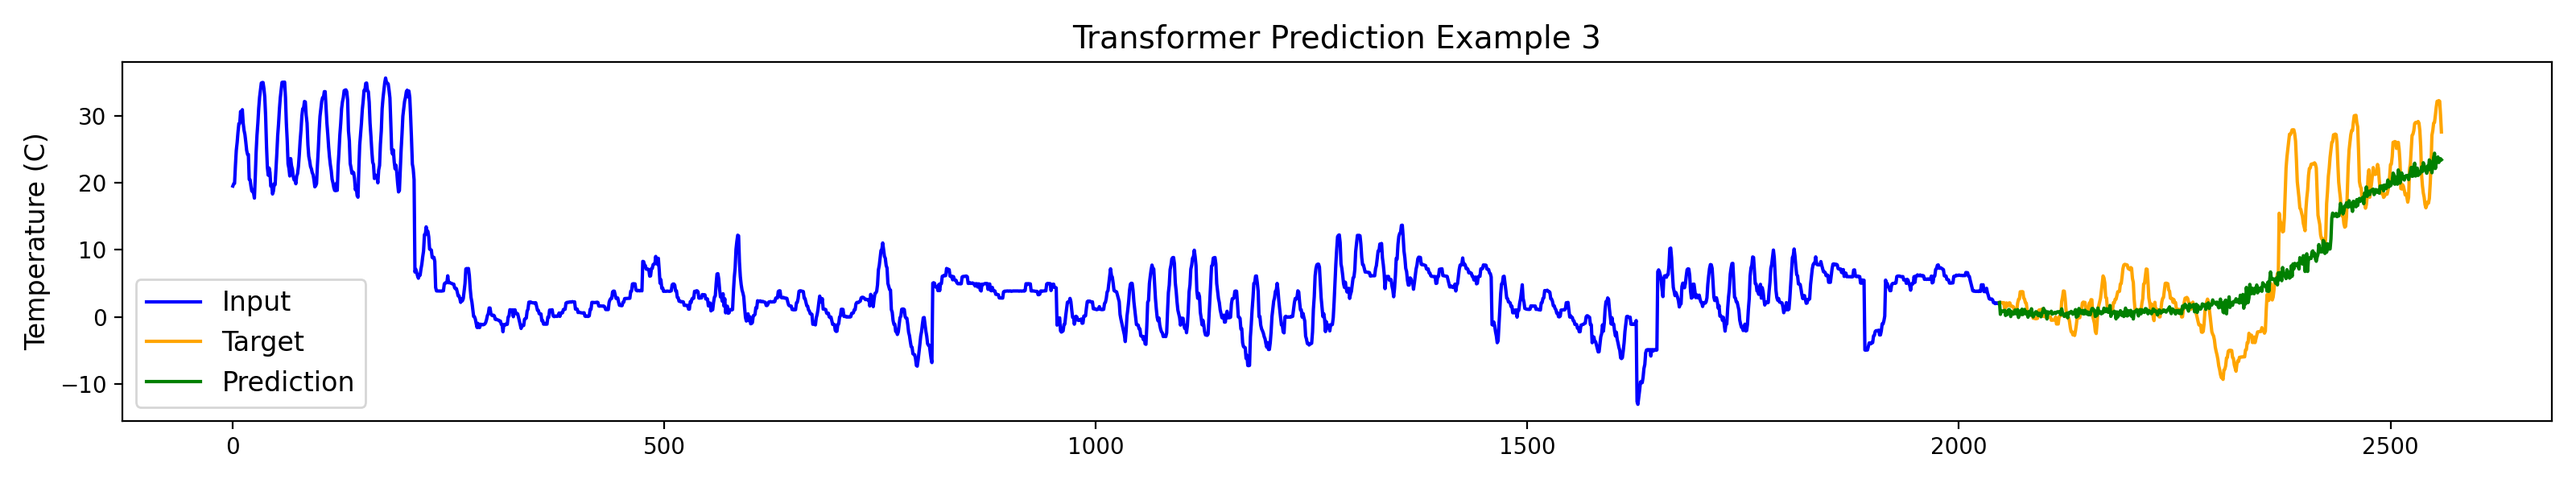
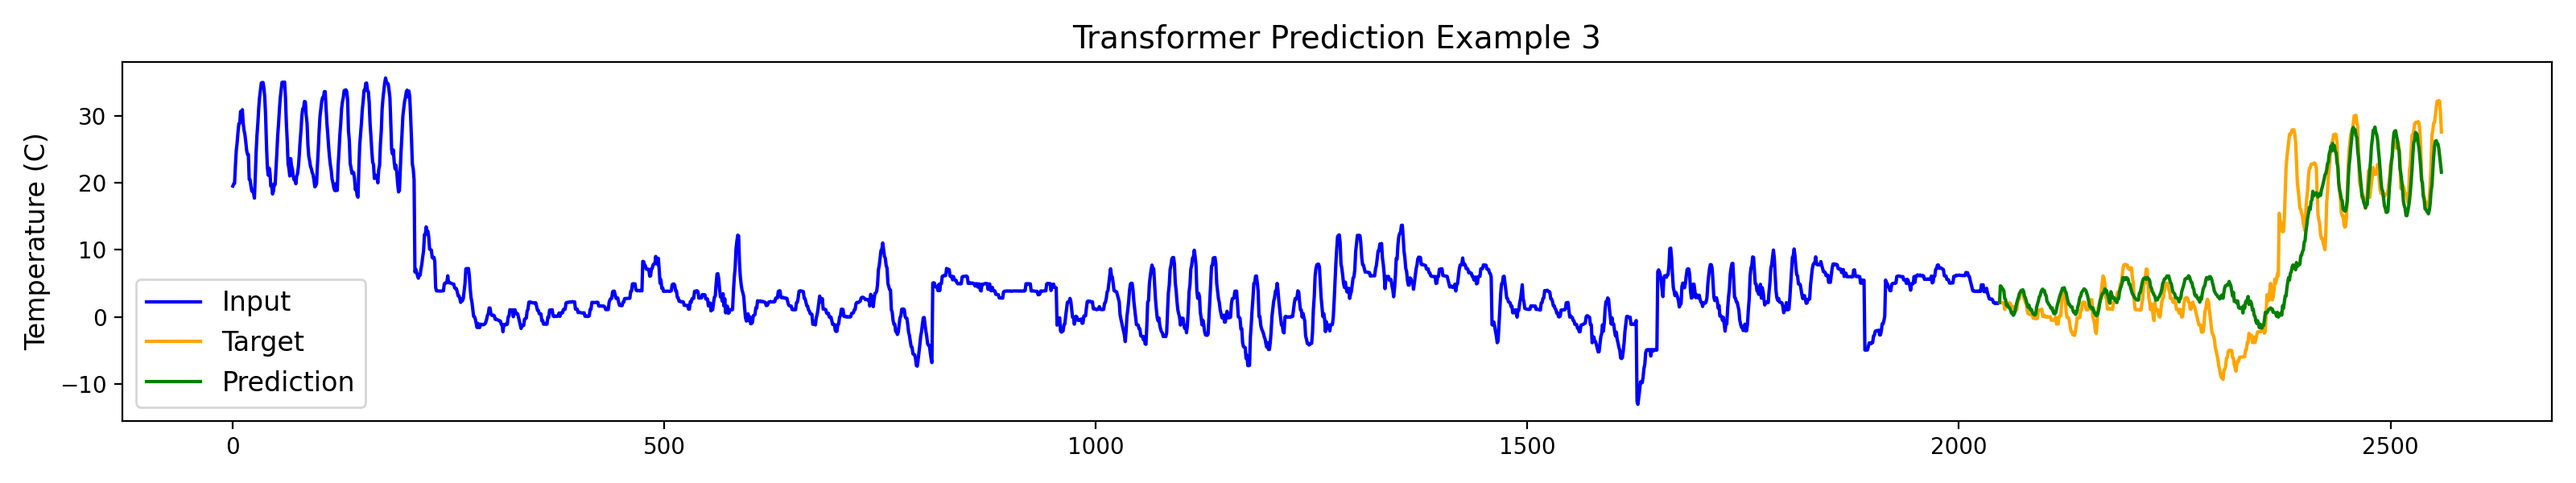
multi token work

Changed region(s): [[0.75, 0.48, 0.9062, 0.66], [0.875, 0.27, 0.9688, 0.45]]

diff --git a/post/style.css b/post/style.css
@@ -616,9 +616,17 @@ h1 {
 
 }
 
-@media (max-width: 768px) {
+@media (max-width: 800px) {
+    .blog .subtitle {
+        font-size: 14px;
+    }
+
     .blog p {
         font-size: 18px;
+    }
+
+    .blog h1 {
+        font-size: 46px;
     }
 
     .blog ul {
@@ -627,11 +635,51 @@ h1 {
 
     .blog p code,
     .blog ul code {
-        background-color: white;
-        padding-left: 2px;
-        padding-right: 2px;
-        border-radius: 5px;
         font-size: 15px;
-        color: black;
+    }
+
+    .blog pre code {
+        font-size: 14px;
+    }
+}
+
+@media (max-width: 600px) {
+    .blog .subtitle {
+        font-size: 13px;
+    }
+
+    .blog p {
+        font-size: 17px;
+    }
+
+    .blog h1 {
+        font-size: 40px;
+    }
+
+    .blog ul {
+        font-size: 17px;
+    }
+
+    .blog p code,
+    .blog ul code {
+        font-size: 15px;
+    }
+
+    .blog pre code {
+        font-size: 12px;
+        tab-size: 2;
+    }
+
+    .blog .figure_container_small {
+        padding-left: 12px;
+        padding-right: 12px;
+        padding-top: 4px;
+        padding-bottom: 14px;
+    }
+
+    .blog .figure_caption {
+        font-size: 12px;
+        margin-left: 5%;
+        margin-right: 5%;
     }
 }

diff --git a/post/transformer_time_series.html b/post/transformer_time_series.html
@@ -573,10 +573,9 @@ class TimeSeriesTransformer(nn.Module):
 	def forward(self, x):        
 		x, m, s = normalize(x)
 								
-        encoded_patches = self.encode_patches(x,
-                                              self.patches,
-                                              self.patch_len,
-                                              self.patch_encoder)
+		encoded_patches = self.encode_patches(
+			x, self.patches, self.patch_len, self.patch_encoder
+		)
 
 		x = torch.stack(encoded_patches, dim=1)
 				

diff --git a/post/mlp_version.py b/post/mlp_version.py
@@ -146,7 +146,7 @@ class TimeSeriesTransformer(nn.Module):
 
         self.patch_len = patch_len
         self.patches = context_len // patch_len
-        
+
         self.output_patches = output_len // output_patch_len
         self.tokens = self.patches + self.output_patches
 
@@ -182,7 +182,9 @@ class TimeSeriesTransformer(nn.Module):
             ]
         )
 
-        self.tgt_mask = self.causal_mask(self.tokens)
+        self.register_buffer("tgt_mask", self.causal_mask(self.tokens))
+
+        #self.tgt_mask = self.causal_mask(self.tokens)
 
     def encode_patches(self, x, patches, patch_len, encoder):
         x = x.view(x.shape[0], patches, patch_len)
@@ -194,13 +196,13 @@ class TimeSeriesTransformer(nn.Module):
             encoded_patches.append(encoded_patch)
 
         return encoded_patches
-    
+
     def decode_patches(self, x, output_patches, output_patch_len, decoder):
         decoded_patches = []
-        
+
         for i in range(1, output_patches + 1):
             decoded_patches.append(decoder(x[:, -i, :]))
-        
+
         return torch.cat(decoded_patches, dim=1)
 
     def forward(self, x):
@@ -218,10 +220,12 @@ class TimeSeriesTransformer(nn.Module):
         for layer in self.transformer_layers:
             x = layer(x, src_mask=self.tgt_mask, is_causal=True)
 
-        x = self.decode_patches(x, self.output_patches, self.output_patch_len, self.patch_decoder)
+        x = self.decode_patches(
+            x, self.output_patches, self.output_patch_len, self.patch_decoder
+        )
 
-        #x = x[:, -1, :]
-        #x = self.patch_decoder(x)
+        # x = x[:, -1, :]
+        # x = self.patch_decoder(x)
 
         x = un_normalize(x, m, s)
 
@@ -241,10 +245,10 @@ def normalize(x, m=None, s=None):
 
 
 def un_normalize(x, m, s):
-    #print(x.shape)
-    #print(m.shape)
-    #print(s.shape)
-    
+    # print(x.shape)
+    # print(m.shape)
+    # print(s.shape)
+
     return (x * s) + m
 
 
@@ -260,7 +264,7 @@ def normalized_mse(series, pred, target):
 def plot_dataset(ds, idx, title, prediction=None):
     plt.figure(figsize=(16, 3), dpi=200)
 
-    x = np.arange(context_len + output_len)
+    x = np.arange(context_len + len(ds[idx][1]))
     last_val = np.array([ds[idx][0][-1].numpy()])
 
     future = np.concatenate((last_val, ds[idx][1].numpy()))
@@ -286,9 +290,7 @@ def plot_dataset(ds, idx, title, prediction=None):
 
 
 def autoregressive_forecast(model, steps=10, start_idx=3000):
-    ds = TimeSeriesDataset(
-        weather_ds, context_len, output_len * steps, split="test"
-    )
+    ds = TimeSeriesDataset(weather_ds, context_len, output_len * steps, split="test")
     data = ds[start_idx][0].to(device)
 
     model.eval()
@@ -359,11 +361,12 @@ def test(model, device, optimizer, dataloader):
 if __name__ == "__main__":
     patch_len = 32
     output_patch_len = 128
-    output_len = output_patch_len * 4
-    context_len = 1024 * 2
+    output_patches = 4
+    output_len = output_patch_len * output_patches
+    context_len = 2048
     d_model = 256
     num_heads = 4
-    num_layers = 2
+    num_layers = 4
     dropout = 0.1
     n_fft = 256
 
@@ -372,7 +375,7 @@ if __name__ == "__main__":
 
     learning_rate = 3e-4
     batch_size = 32 * 2
-    max_epochs = 1
+    max_epochs = 5
 
     device = "cpu"
 
@@ -383,9 +386,7 @@ if __name__ == "__main__":
 
     weather_ds = WeatherDataset()
 
-    ds_train = TimeSeriesDataset(
-        weather_ds, context_len, output_len, split="train"
-    )
+    ds_train = TimeSeriesDataset(weather_ds, context_len, output_len, split="train")
     ds_test = TimeSeriesDataset(weather_ds, context_len, output_len, split="test")
 
     plot_dataset(ds_test, 3000, "Weather dataset example")
@@ -427,6 +428,8 @@ if __name__ == "__main__":
     )
 
     for i, example_id in enumerate([6000, 0, 3000]):
+        multitoken = " multi-token" if output_patches > 1 else ""
+        
         model_output = (
             model(ds_test[example_id][0].unsqueeze(0).to(device))
             .squeeze()
